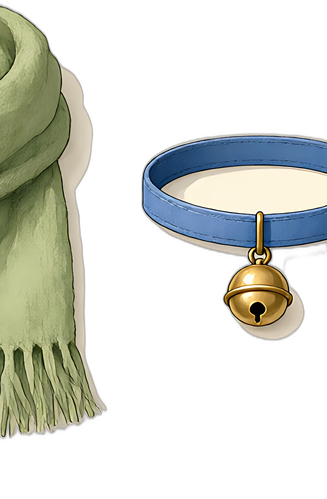
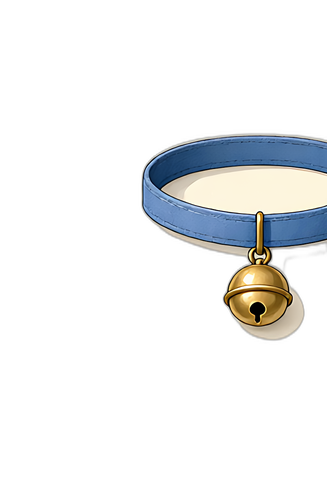
fix: 陶盆真正替换默认花盆，项圈头巾按阶段对齐底图自带配饰
- visuals.js 新增 POT_CUT/POT_ACC：穿叶纹陶盆时按阶段裁掉底图自带的旧盆与石座（盆沿比例 0.203/0.351/0.523/0.565 从 PNG 逐像素实测），新盆宽度动态保证盆沿盖住切割线
- WEAR_POS 支持按阶段覆盖（stages）：猫狗成体底图自带绿项圈/围巾/蓝头巾/红项圈，饰物按实测包围盒叠盖其上，成体阶段定位失效问题修复
- assets/acc/cat-2.png 清除素材内嵌的围巾残片（成体阶段放大后曾悬空漂浮），仅保留蓝项圈+铃铛主体
- 修复 worn 为空时 undefined===undefined 误判穿盆导致的 visuals 测试崩溃
- 全部 16 件饰物 x 4 阶段截图目检通过；引擎 44、visuals、audio、浏览器全链路回归绿

Changed region(s): [[0.0, 0.0, 0.3364, 0.9018]]

diff --git a/visuals.js b/visuals.js
@@ -40,6 +40,11 @@
   // Worn accessory placement as fractions of the character box.
   // x/y/w are relative to the character box; bottom:true anchors the item's
   // lower edge to the character baseline (ground / feet).
+  // Plant stage art bakes in its own pot: when the leaf-pattern pot is worn,
+  // clip the base art above these per-stage pot-top ratios (measured from the
+  // PNGs) so the new pot truly replaces the old one instead of stacking.
+  const POT_CUT = { plant: [.203, .351, .523, .565] };
+  const POT_ACC = { plant: 'acc-plant-1' };
   const WEAR_POS = {
     baby: {
       'acc-baby-1': { x: .5, y: .02, w: .46 },
@@ -48,14 +53,14 @@
       'acc-baby-4': { x: 1.24, y: .72, w: .28 }
     },
     cat: {
-      'acc-cat-1': { x: .5, y: .30, w: .54 },
-      'acc-cat-2': { x: .5, y: .50, w: .42 },
+      'acc-cat-1': { x: .5, y: .30, w: .54, stages: { 2: { x: .309, y: .407, w: .285 }, 3: { x: .336, y: .277, w: .746 } } },
+      'acc-cat-2': { x: .59, y: .55, w: .42, stages: { 0: { x: .5, y: .39, w: .46 }, 2: { x: .2, y: .29, w: .5 }, 3: { x: .225, y: .173, w: .533 } } },
       'acc-cat-3': { x: 1.26, y: .76, w: .30 },
       'acc-cat-4': { x: -.16, y: .70, w: .28 }
     },
     dog: {
-      'acc-dog-1': { x: .5, y: .32, w: .56 },
-      'acc-dog-2': { x: .5, y: .28, w: .46 },
+      'acc-dog-1': { x: .5, y: .32, w: .56, stages: { 2: { x: .239, y: .395, w: .383 }, 3: { x: .38, y: .305, w: .476 } } },
+      'acc-dog-2': { x: .5, y: .28, w: .46, stages: { 2: { x: .129, y: .337, w: .601 }, 3: { x: .243, y: .243, w: .746 } } },
       'acc-dog-3': { x: 1.24, y: .70, w: .34 },
       'acc-dog-4': { x: -.15, y: .76, w: .26 }
     },
@@ -82,20 +87,37 @@
     const ix = +(CENTER_X - iw / 2).toFixed(1);
     const iy = +(BASE_Y - d).toFixed(1);
     const sick = tier === 'sick' || tier === 'critical' ? ' data-sick="true"' : '';
+    const potCut = worn && worn === POT_ACC[type] ? POT_CUT[type][n] : null;
     let acc = '';
     if (worn) {
       const adim = DIMS.acc[worn];
-      const pos = (WEAR_POS[type] || {})[worn] || { x: .5, y: .04, w: .5 };
+      let pos = (WEAR_POS[type] || {})[worn] || { x: .5, y: .04, w: .5 };
+      if (pos.stages && pos.stages[n]) pos = { ...pos, ...pos.stages[n] };
       if (adim) {
-        const aw = +(iw * pos.w).toFixed(1);
-        const ah = +(aw * adim[1] / adim[0]).toFixed(1);
+        let aw = iw * pos.w;
+        if (potCut) {
+          const need = d * (1 - potCut) + 5;
+          if (aw * adim[1] / adim[0] < need) aw = need * adim[0] / adim[1];
+        }
+        aw = +aw.toFixed(1);
         const ax = +(ix + iw * pos.x - aw / 2).toFixed(1);
-        const ay = +(pos.bottom ? iy + d - ah : iy + d * pos.y).toFixed(1);
-        acc = `<image class="acc-worn" data-worn="${worn}" href="assets/acc/${worn.slice(4)}.png" x="${ax}" y="${ay}" width="${aw}" height="${ah}" preserveAspectRatio="xMidYMid meet"/>`;
+        if (pos.crop) {
+          const [cx0, cy0, cx1, cy1] = pos.crop;
+          const cw = +((cx1 - cx0) * adim[0]).toFixed(1);
+          const ch = +((cy1 - cy0) * adim[1]).toFixed(1);
+          const ah = +(aw * ch / cw).toFixed(1);
+          const ay = +(pos.bottom ? iy + d - ah : iy + d * pos.y).toFixed(1);
+          acc = `<svg class="acc-worn" data-worn="${worn}" x="${ax}" y="${ay}" width="${aw}" height="${ah}" viewBox="${(cx0 * adim[0]).toFixed(1)} ${(cy0 * adim[1]).toFixed(1)} ${cw} ${ch}" preserveAspectRatio="xMidYMid meet"><image href="assets/acc/${worn.slice(4)}.png" x="0" y="0" width="${adim[0]}" height="${adim[1]}"/></svg>`;
+        } else {
+          const ah = +(aw * adim[1] / adim[0]).toFixed(1);
+          const ay = +(pos.bottom ? iy + d - ah : iy + d * pos.y).toFixed(1);
+          acc = `<image class="acc-worn" data-worn="${worn}" href="assets/acc/${worn.slice(4)}.png" x="${ax}" y="${ay}" width="${aw}" height="${ah}" preserveAspectRatio="xMidYMid meet"/>`;
+        }
       }
     }
-    return `<ellipse cx="${CENTER_X}" cy="${BASE_Y}" rx="${(iw * 0.42).toFixed(1)}" ry="9" fill="#b8a97e" opacity=".28"/>
-      <image class="pet-breathe"${sick} data-character="${type}" data-stage="${n}" href="assets/stages/${type}-${n + 1}.png" x="${ix}" y="${iy}" width="${iw}" height="${d}" preserveAspectRatio="xMidYMid meet"/>${acc}`;
+    const potClip = potCut ? `<clipPath id="pot-clip"><rect x="${ix - 2}" y="${iy - 2}" width="${iw + 4}" height="${(d * potCut + 2).toFixed(1)}"/></clipPath>` : '';
+    return `<ellipse cx="${CENTER_X}" cy="${BASE_Y}" rx="${(iw * 0.42).toFixed(1)}" ry="9" fill="#b8a97e" opacity=".28"/>${potClip}
+      <g${potCut ? ' clip-path="url(#pot-clip)"' : ''}><image class="pet-breathe"${sick} data-character="${type}" data-stage="${n}" href="assets/stages/${type}-${n + 1}.png" x="${ix}" y="${iy}" width="${iw}" height="${d}" preserveAspectRatio="xMidYMid meet"/></g>${acc}`;
   }
 
   function hearts() {
